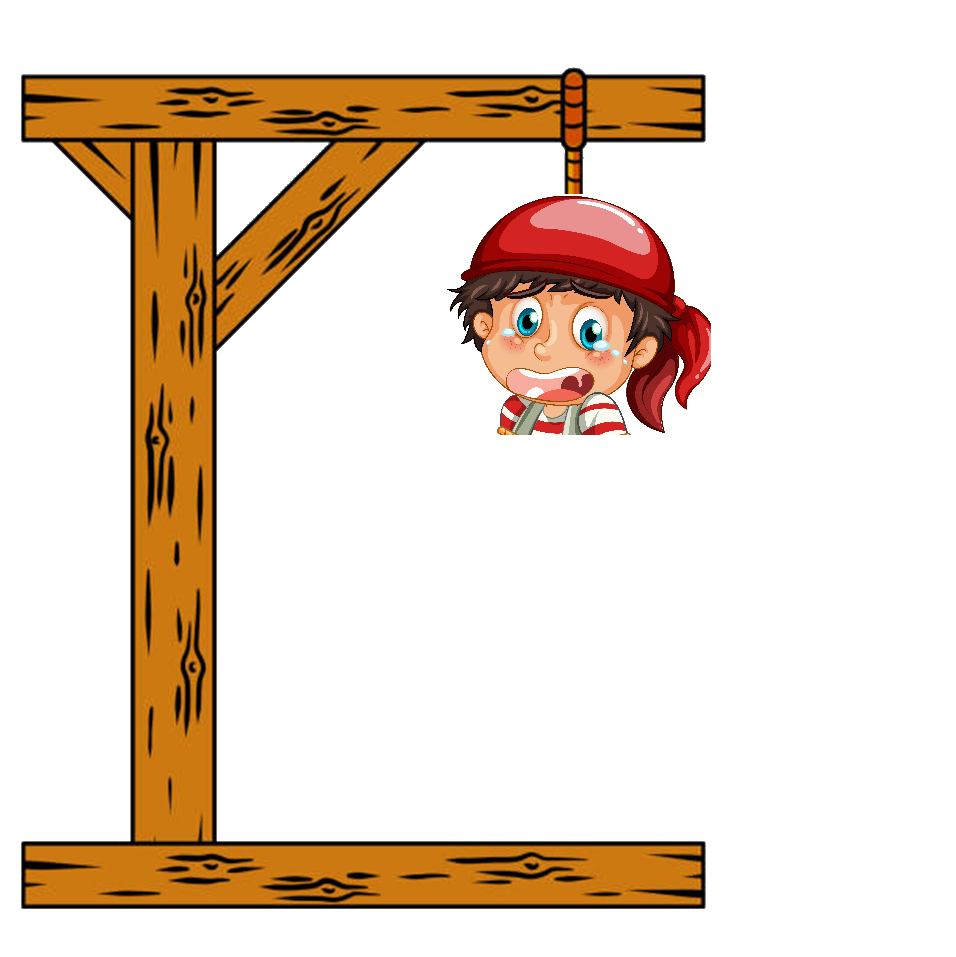
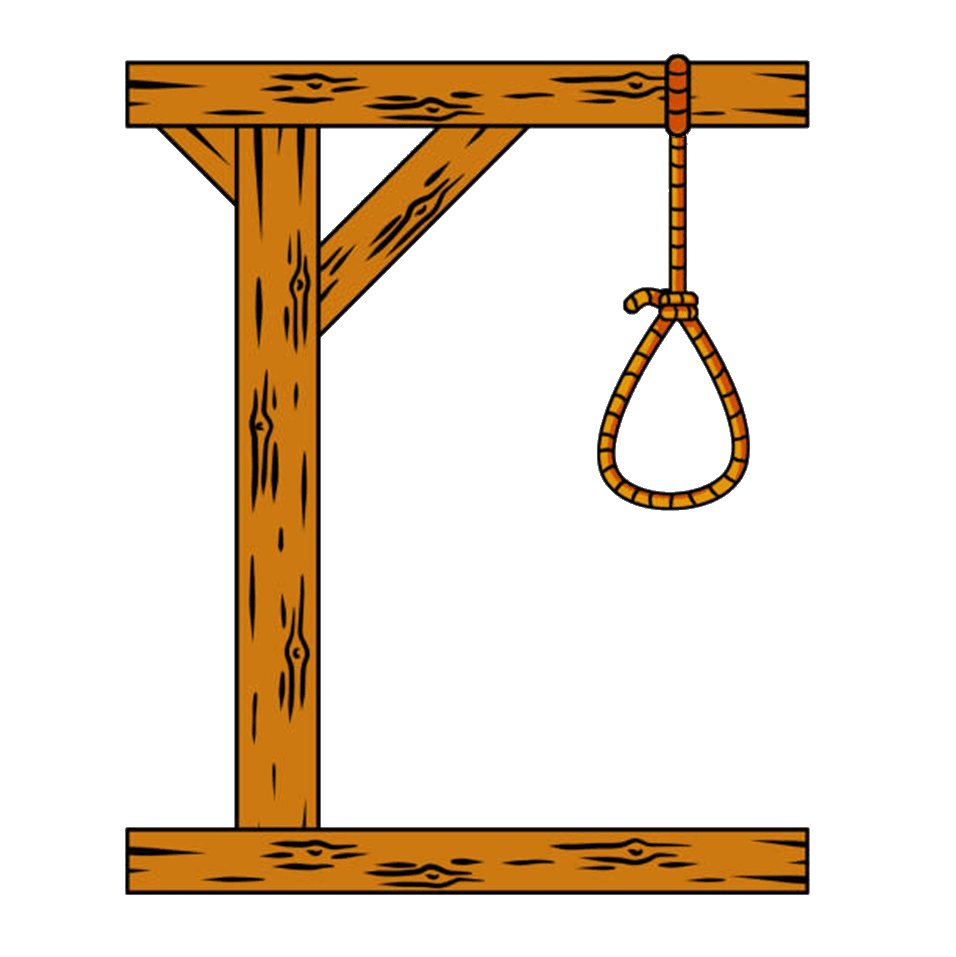
Funciona ahorcado

diff --git a/js/script.js b/js/script.js
@@ -1,4 +1,4 @@
-let letrasErradas = "";
+//Declaración de variables y/o constantes de tipo global
 aciertos = 0;
 erroneas = 0;
 arrayteclas = [];
@@ -19,7 +19,7 @@ function capturarTexto() {
 
     cuadroTexto.value = ""; //limpiar cuadro texto
 
-    //Válidación de campo de texto
+    //Válidación de campo de texto vacio
     if (arraynew == '') {
         alert("El campo de texto esta vacío")
         arrayPalabras = arrayPalabras;
@@ -28,7 +28,7 @@ function capturarTexto() {
     }
 
     console.log("Soy el nuevo array: " + arrayPalabras);
-    sessionStorage.setItem("Arrayp", arrayPalabras);
+    sessionStorage.setItem("Arrayp", arrayPalabras); //almaceno variable en session storage del navegador
 }
 
 
@@ -43,12 +43,13 @@ function seleccionarpalabra(arrayPal) {
     return pseleccionada;
 }
 
-//Función letras adivinadas y creación de spans 
+
+//Función para creación de etiquetas html textarea acorde a longitud de palabra secreta
 function letrasAdivinadas(palabraSecreta) {
 
     document.getElementById("letrasAdivinadas").innerHTML = ""; //Limpia el contenido del contenedor para un nuevo juego. 
 
-    let contador = 0;
+    let contador = 0;  //contador para construcción de ids
 
     for (let letra of palabraSecreta) {
         const listaAdivinadas = document.getElementById("letrasAdivinadas");
@@ -56,23 +57,22 @@ function letrasAdivinadas(palabraSecreta) {
         areaTexto.classList.add("words-acertadas");
         areaTexto.setAttribute("id", "letAdivinada" + contador);
         areaTexto.setAttribute("readonly", "true");
-        //areaTexto.setAttribute("value", "el mejor");
         areaTexto.textContent = '';
         listaAdivinadas.appendChild(areaTexto);
         contador++;
     }
-
 }
 
-//Función letras erróneas y creación de spans 
+
+//Función para creación de etiquetas html textarea para letras erróneas
 function letrasErroneas() {
 
     document.getElementById("letrasIncorrectas").innerHTML = ""; //Limpia el contenido del contenedor para un nuevo juego. 
 
     let juego_adivinado = [];
-    let contador = 0; //Vontador para ids
+    let contador = 0; //contador para construcción de ids
 
-    for (let i = 0; i < 8; i++) {
+    for (let i = 0; i <= 8; i++) {
         const listaErroneas = document.getElementById("letrasIncorrectas");
         const areaTexto = document.createElement("textarea");
         areaTexto.classList.add("words-incorrectas");
@@ -84,105 +84,119 @@ function letrasErroneas() {
     }
 }
 
+
 //Función validar evento teclado y construcción de palabra adivinada
 function validarletras(evento) {
-
-    const teclaPresionada = evento.key.toLocaleUpperCase();
-    console.log("Soy tecla preciosonada: " + typeof(teclaPresionada))
-
-    let contando = 0;
-    //arrayteclas.push(teclaPresionada) //almaceno array de teclas
-    arrayteclas = arrayteclas + teclaPresionada;
-    console.log("Soy arrayteclas: " + typeof(arrayteclas))
-
-    /* arrayteclas.forEach(element => {
-        if(element == teclaPresionada) {
-            
-            return console.log("si estoy")
-        }else {
-            return console.log("no estoy")
-        }
-    }); */
-
-    for (let i = 0; i < arrayteclas.length; i++) {
-        if (teclaPresionada == arrayteclas[i] && !arrayteclas.includes(teclaPresionada)) {
-            console.log("si estoy")
-        }else {
-            console.log("no estoy")
-        }
-    }
-
-    /* if (teclaPresionada. arrayteclas) {
-        console.log("si estoy")
-    }else {
-        console.log("no estoy")
-    } */
-
 
     //LLamo palabra secreta almacenada en sessionStorage
     let PalSecreta = sessionStorage.getItem("pSecreta");
 
+    let contadorTecla = 0;
+    let contadorAciertos = 0;
+    const teclaPresionada = evento.key.toLocaleUpperCase();
+
+    arrayteclas.push(teclaPresionada); //almaceno array de teclas
+
+    //Si se repite la tecla presionada aumento el contador
+    arrayteclas.forEach((i) => {
+        if (i == teclaPresionada) {
+            contadorTecla++;
+        }
+    });
+
     if (teclaPresionada.match(/^[A-ZÑ]$/i)) { //solo toma caracteres alfabéticos, sin números ni símbolos
-        console.log("letra " + teclaPresionada);
+        console.log("TeclaPresionada " + teclaPresionada);
 
     } else {
+        cuadroTexto.value = "";
         alert("Caracter no válido")
     }
 
+    if (contadorTecla == 1) {
+        for (let letra = 0; letra < PalSecreta.length; letra++) {
 
-    /* for (let letra = 0; letra < PalSecreta.length; letra++) {
+            if (PalSecreta[letra] == teclaPresionada) {
 
-        if (PalSecreta[letra] == teclaPresionada) {
-            console.log("letra secreta: " + PalSecreta[letra] + " letra oprimida: " + teclaPresionada)
+                const listaAdivinadas = document.getElementById("letrasAdivinadas");
+                const areaTexto = document.getElementById("letAdivinada" + letra);
+                areaTexto.textContent = teclaPresionada;
 
-            const listaAdivinadas = document.getElementById("letrasAdivinadas");
-            const areaTexto = document.getElementById("letAdivinada" + letra);
-            areaTexto.textContent = teclaPresionada;
+                aciertos++;
 
-            aciertos++;
+                //Contador para validar posteriormente palabras erroneas
+                contadorAciertos++;
 
-            console.log("Aciertos: " + aciertos)
+                if (aciertos == PalSecreta.length) {
 
-            if (aciertos == PalSecreta.length) {
-                console.log("Ganaste");
-            } else {
-                letrasErradas++;
-                console.log("Letras erradas: " + letrasErradas)
+                    //Detener evento teclado
+                    this.removeEventListener('keyup', validarletras);
+
+                    //Alerta Ganaste
+                    Swal.fire({
+                        title: '¡Felicidades!',
+                        text: 'Ganaste',
+                        imageUrl: 'https://user-images.githubusercontent.com/106354407/193883474-ff0ddda1-6b4b-4eb6-ad9a-39fc0d2d919a.png',
+                        imageWidth: 400,
+                        imageHeight: 300,
+                        imageAlt: 'Custom image',
+                      })      
+                }
             }
 
-        } 
-    }
- */
-    /* for (let letra = 0; letra < PalSecreta.length; letra++) {
+        } if (contadorAciertos == 0) {
+            erroneas++; //Contador de vidas
 
-        if (PalSecreta[letra] != teclaPresionada) {
-            console.log("letra secreta: " + PalSecreta[letra] + " letra erronea: " + teclaPresionada)
-            
-            erroneas++;
-            //letrasErradas += teclaPresionada;
+            //llamado de función para cambio de imagen(estado) de ahorcado
+            imagenes(erroneas);
 
-            const listaErroneas = document.getElementById("letrasAdivinadas");
-            const areaTexto = document.getElementById("letIncorrecta" + letra);
+            //Reemplazo de valores de campo de texto vació por letras erroneas
+            const listaErroneas = document.getElementById("letrasIncorrectas");
+            const areaTexto = document.getElementById("letIncorrecta" + erroneas);
             areaTexto.textContent = teclaPresionada;
 
-            
+            if (erroneas == 8) {
 
-            console.log("Erroneas: " + erroneas)
+                //Detener evento teclado
+                this.removeEventListener('keyup', validarletras);
 
-            if (erroneas > PalSecreta.length) {
-                console.log("Ganaste");
+                //Alerta perdiste
+                Swal.fire({
+                    title: '¡ooh Nooo!',
+                    text: 'Perdiste',
+                    imageUrl: 'https://user-images.githubusercontent.com/106354407/193887000-532a5b26-c432-4241-ad53-04e8d8bb8b8f.png',
+                    imageWidth: 400,
+                    imageHeight: 300,
+                    imageAlt: 'Custom image',
+                  })
             }
-        } 
-    } */
+        }
+    } 
 }
 
-//Captura de evento teclado y llamado de función
+
+//Función para cambio de imagen ahorcado
+function imagenes(contadorImagen) {
+
+    const ahorcado = "./img/Estado" + contadorImagen + ".png";
+    const imagencam = document.getElementById("imgAhorcado").src = ahorcado;
+}
+
+
+//Captura de evento teclado al soltar tecla y llamado de función
 document.addEventListener("keyup", validarletras);
 
+
+//---------------------------------------------------------------------------------------------------
 //Función de juego nuevo
 function juegoNuevo() {
 
-    const cambiarImg = document.getElementById("imgAhorcado").src = "./img/Estado0.png";
+    //Reniciando estados globales
+    aciertos = 0;
+    erroneas = 0;
+    arrayteclas = [];
+    document.addEventListener("keyup", validarletras);
+
+    cambiarImg = document.getElementById("imgAhorcado").src = "./img/Estado0.png";
     console.log("Soy array original: " + arrayPalabras);
 
     //Obtener arreglo de Strings guardado de sessionStorage
@@ -204,5 +218,6 @@ function juegoNuevo() {
     console.log("Soy palabra secreta: " + palabraSecreta);
     letrasErroneas();
     letrasAdivinadas(palabraSecreta);
+
 }
 

diff --git a/palabras.html b/palabras.html
@@ -20,8 +20,8 @@
 
         <main class="principal">
             <div class="texto">
-                <textarea class="palabra" name="" id="texto" cols="" rows="" placeholder="Ingresa una palabra" maxlength="8" required="required"></textarea>
-                <p class="advertencia">Máx. de 8 letras sin acentos, caracteres especiales o espacios</p>
+                <textarea class="palabra" name="" id="texto" cols="" rows="" placeholder="Ingresa una palabra" maxlength="10" required="required"></textarea>
+                <p class="advertencia">Máx. de 10 letras sin acentos, caracteres especiales o espacios</p>
             </div>
             <section class="botones">
                 <button class="btn-guardar" onclick="capturarTexto()">Guardar</button>

diff --git a/index.html b/index.html
@@ -21,7 +21,7 @@
         <main class="principal">
             
             <section class="botones">
-                <button class="btn-iniciar_juego" onclick=""><a href="./comenzar.html">Iniciar juego</a></button>
+                <button class="btn-iniciar_juego" onclick=""><a href="./comenzar.html">Interfaz de Juego</a></button>
                 <button class="btn-ingresar_palabra"><a href="./palabras.html">Ingresar palabra</a></button>
             </section>
         </main>

diff --git a/comenzar.html b/comenzar.html
@@ -50,7 +50,7 @@
         </main>
     </div>
     <script src="./js/script.js"></script>
-    <script script src=" https://unpkg.com/sweetalert/dist/sweetalert.min.js "></script>
+    <script src="//cdn.jsdelivr.net/npm/sweetalert2@11"></script>
 </body>
 
 </html>
